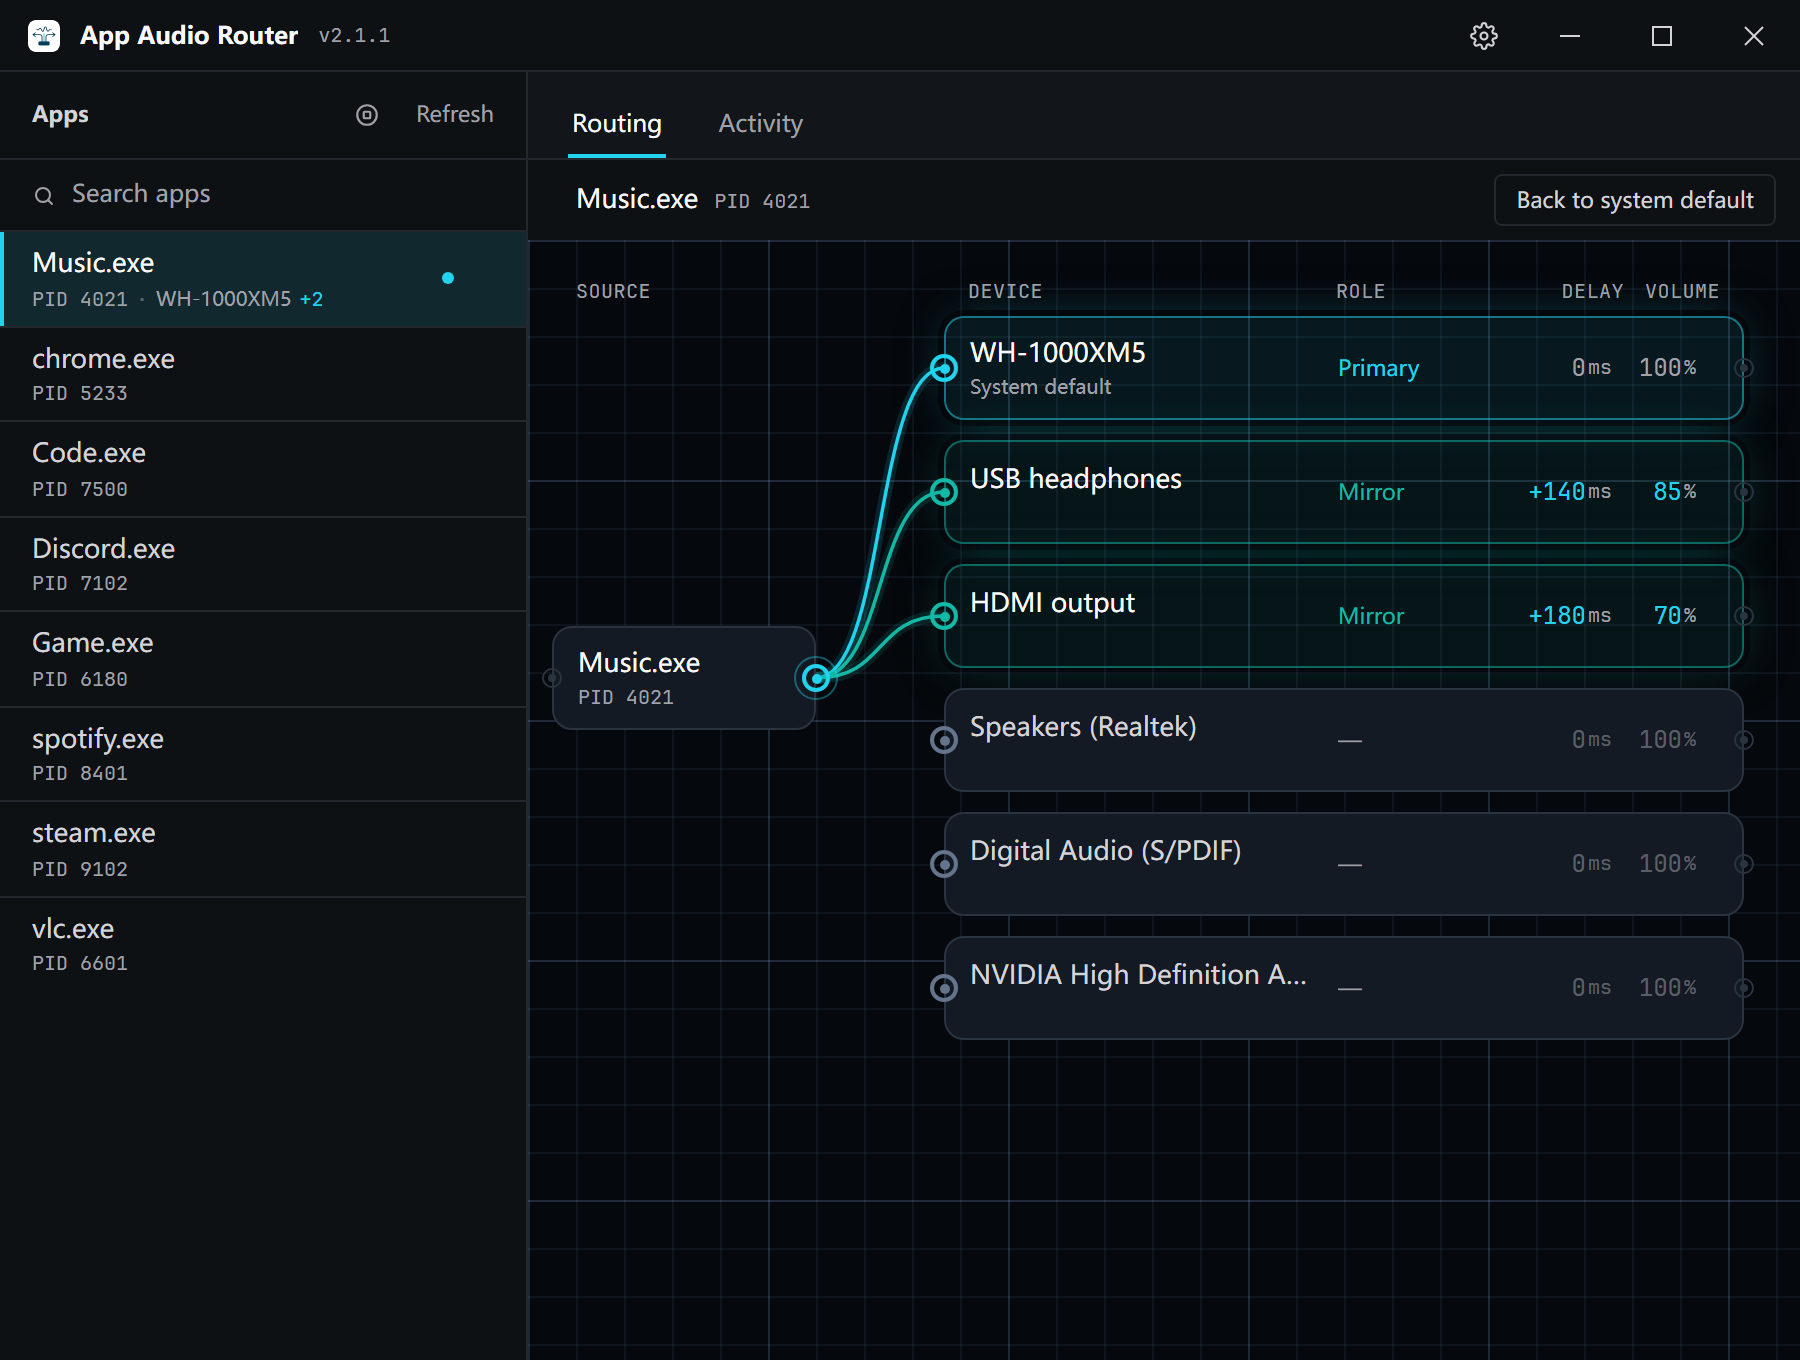
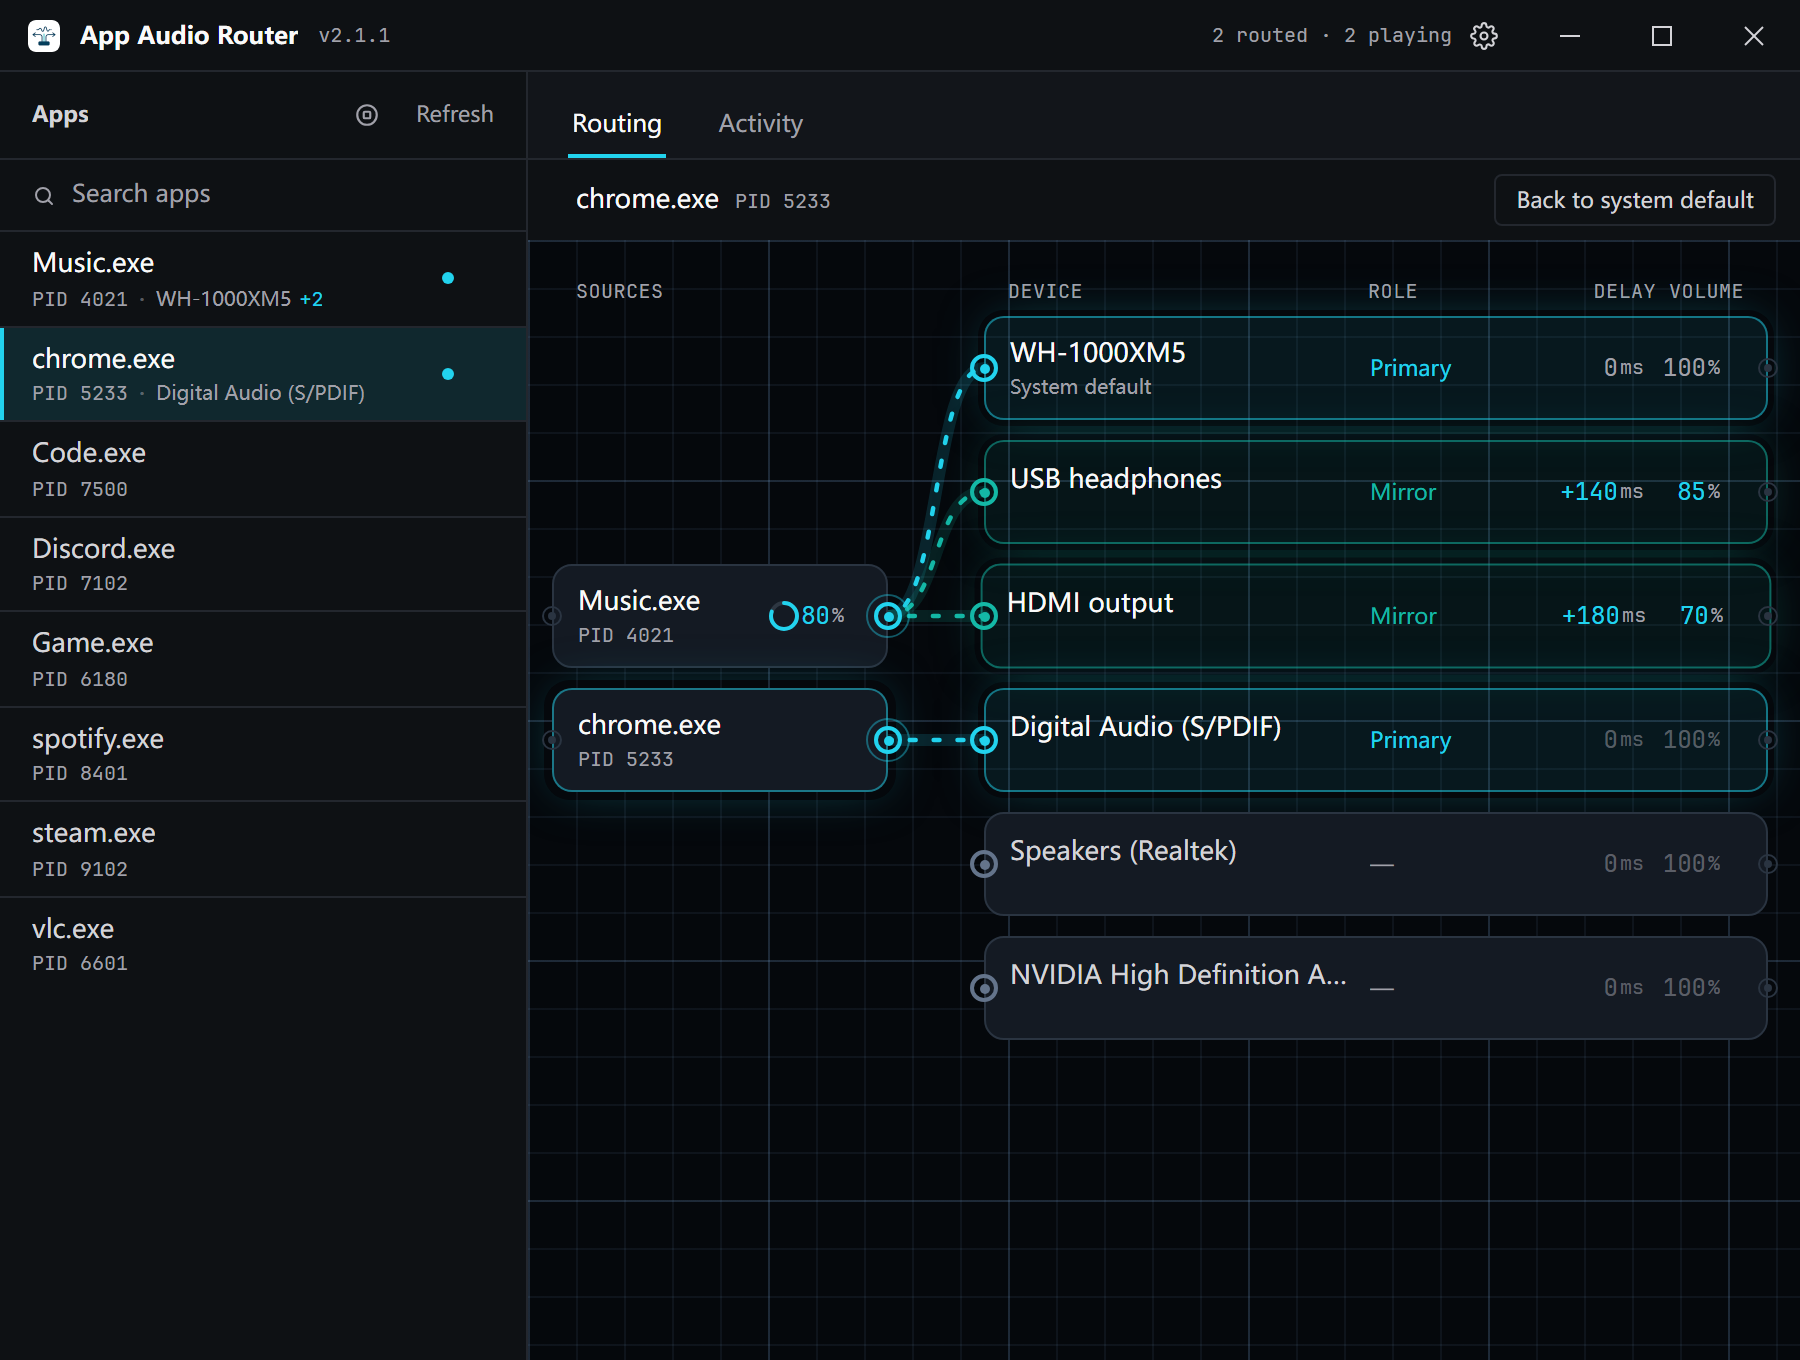
docs(images): recapture the README screenshots from the living board
The shot now shows what the board is: two programs routed at once —
Music to three devices, Chrome to the digital output — each wire
carrying the moving dash of a program that is sounding, and Music's
source node wearing its level ring at 80%. The fake runtime gained the
two pieces of state the board reads that it did not script before:
per-session playing flags and the stored per-program levels.

diff --git a/e2e/screenshots.spec.ts b/e2e/screenshots.spec.ts
@@ -26,13 +26,16 @@ test.skip(
   'README screenshots are captured on demand: CAPTURE_SCREENSHOTS=1 playwright test e2e/screenshots.spec.ts',
 );
 
-/** One program routed to three devices: the headset it was already on, plus two
- * wired outputs held back so all three arrive together. The rest of the hardware
- * is there and deliberately not part of the route, so the shot also shows where
- * the routed block ends — the one thing a picture of a route has to get across.
- * The list is filled out to a plausible desktop rather than trimmed to two rows:
- * a screenshot that is nine tenths empty white reads as a broken layout, not as
- * a quiet one. */
+/** Two programs routed: Music to three devices (the headset it was already on,
+ *  plus two wired outputs held back so all three arrive together), and Chrome
+ *  to the digital output. That is what the board is for — seeing where every
+ *  sound is going at once — so the shot has to show more than one source line.
+ *  The rest of the hardware is there and deliberately not part of any route, so
+ *  the shot also shows where the routed block ends. Both routed programs are
+ *  marked as playing, because that is the board's resting truth when music is
+ *  on: the wires carry their moving dash. The list is filled out to a plausible
+ *  desktop rather than trimmed to two rows: a screenshot that is nine tenths
+ *  empty white reads as a broken layout, not as a quiet one. */
 const STATE = {
   devices: [
     { id: 'bt', name: 'WH-1000XM5' },
@@ -43,8 +46,8 @@ const STATE = {
     { id: 'nv', name: 'NVIDIA High Definition Audio' },
   ],
   sessions: [
-    { pid: 4021, exe_name: 'Music.exe' },
-    { pid: 5233, exe_name: 'chrome.exe' },
+    { pid: 4021, exe_name: 'Music.exe', playing: true },
+    { pid: 5233, exe_name: 'chrome.exe', playing: true },
     { pid: 6180, exe_name: 'Game.exe' },
     { pid: 7102, exe_name: 'Discord.exe' },
     { pid: 8401, exe_name: 'spotify.exe' },
@@ -61,6 +64,9 @@ const STATE = {
   volumes: [
     ['hdmi', 70],
     ['usb', 85],
+  ],
+  sourceVolumes: [
+    ['Music.exe', 80],
   ],
 };
 
@@ -86,6 +92,12 @@ for (const theme of ['light', 'dark'] as const) {
     await deviceRow(page, 'WH-1000XM5').click();
     await deviceRow(page, 'HDMI output').click();
     await deviceRow(page, 'USB headphones').click();
+    await routeConfirmButton(page).click();
+
+    // A second program to a second output, so the board shows a fan of routes
+    // instead of one: the shot is of the board, not of a single route.
+    await appRow(page, 'chrome.exe').click();
+    await deviceRow(page, 'Digital Audio (S/PDIF)').click();
     await routeConfirmButton(page).click();
 
     // Let the undo offer expire: the shot is of the resting state, not of the

diff --git a/e2e/tauri/bridge.ts b/e2e/tauri/bridge.ts
@@ -21,6 +21,9 @@ export interface BridgeDevice {
 export interface BridgeSession {
   pid: number;
   exe_name: string;
+  /** Whether the session was rendering audio when enumerated; absent reads as
+   *  "not sounding". */
+  playing?: boolean;
 }
 
 export interface BridgeState {
@@ -30,6 +33,8 @@ export interface BridgeState {
   remembered: [string, string[]][];
   delays: [string, number][];
   volumes: [string, number][];
+  /** `(exe_name, percent)` — the per-program levels the store reads at boot. */
+  sourceVolumes: [string, number][];
 }
 
 /** Commands the fake backend should reject, by name. */
@@ -119,7 +124,16 @@ function tauriBridge(initial: BridgeState): void {
       case 'set_device_volume':
         return null;
       case 'get_source_volumes':
-        return [];
+        return state.sourceVolumes;
+      case 'set_source_volume': {
+        const exeName = String(payload.exeName);
+        const percent = Number(payload.percent);
+        // 100 is the neutral level and is stored as "no entry", the same rule
+        // the real backend follows.
+        const rest = state.sourceVolumes.filter(([name]) => name !== exeName);
+        state.sourceVolumes = percent === 100 ? rest : [...rest, [exeName, percent]];
+        return null;
+      }
       case 'set_source_volume':
       case 'align_source_levels':
       case 'set_tray_labels':
@@ -230,4 +244,5 @@ export const DEFAULT_STATE: BridgeState = {
   remembered: [],
   delays: [],
   volumes: [],
+  sourceVolumes: [],
 };
